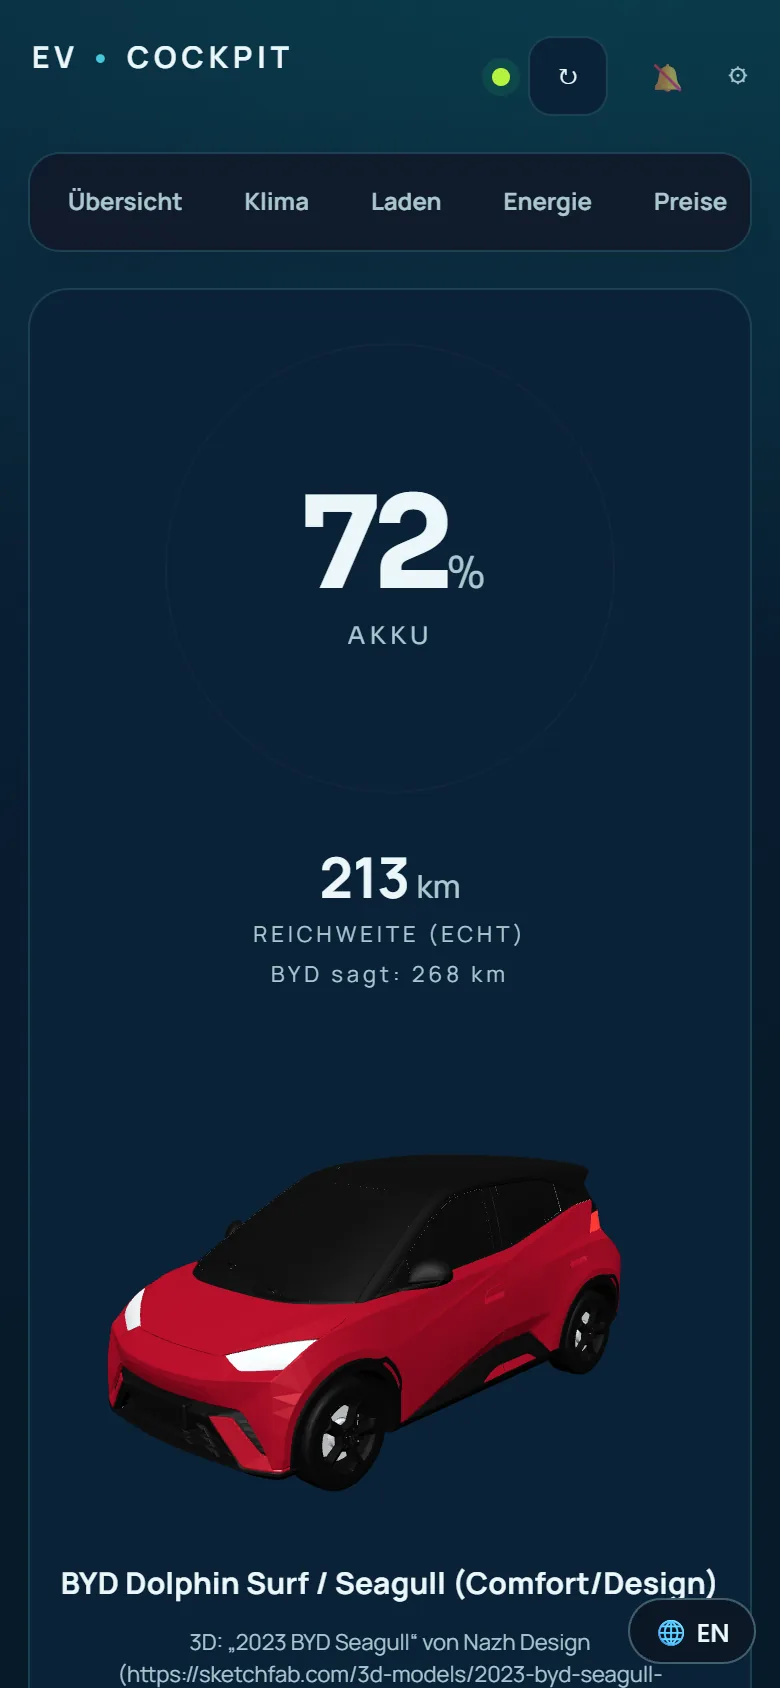
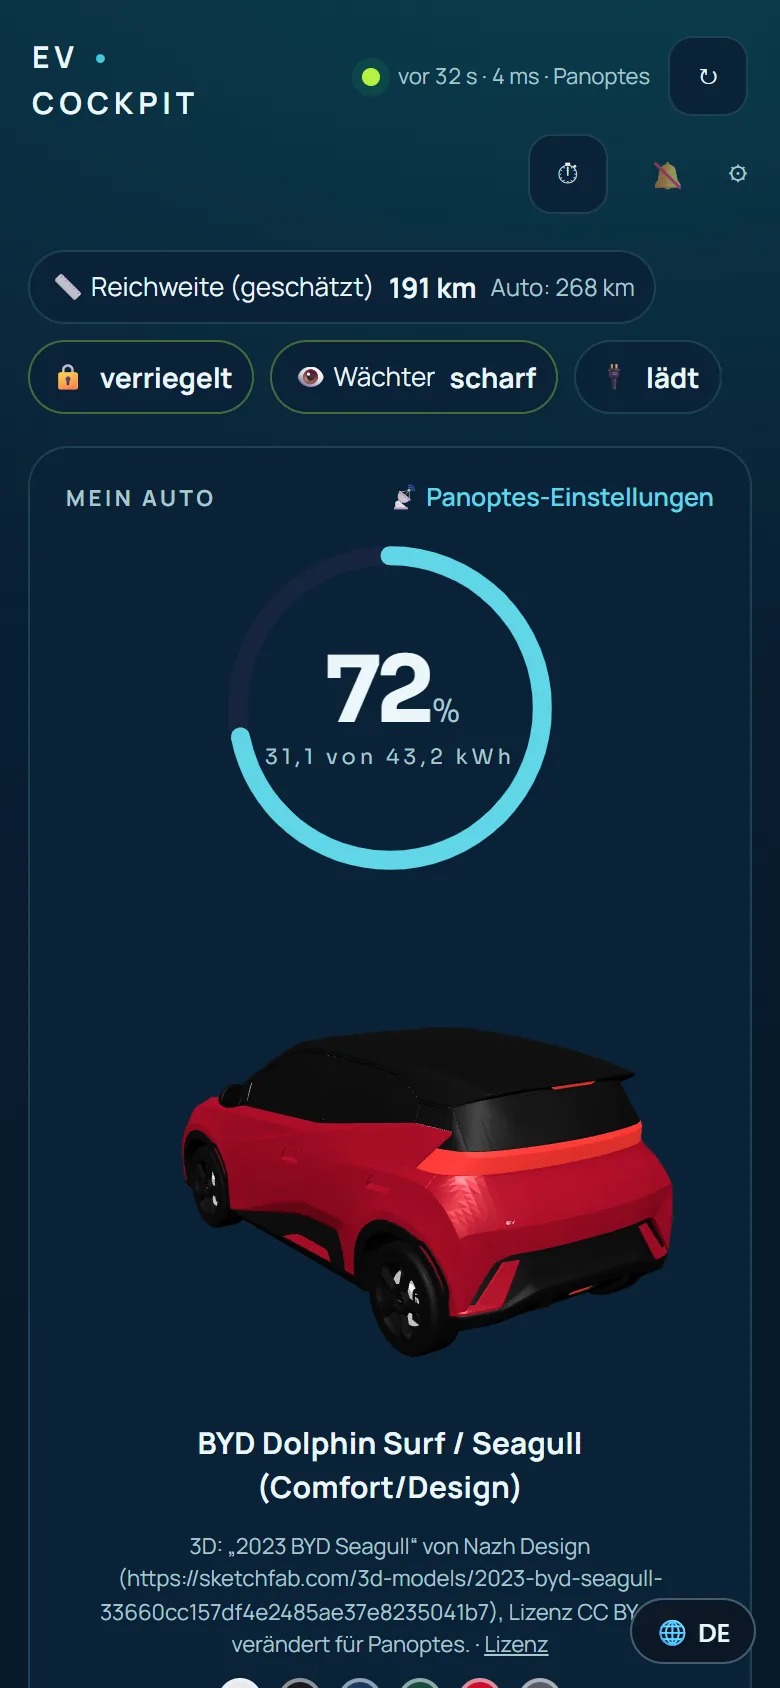
Website /ev-cockpit/ auf Stand 1.15 (Vorschlag Webseiten-Sitzung 22.10.)
- Galerie: Version 1.15 mit Musterdaten; neue Bilder Uebersicht (Ring in %), Laden & Kosten, Wo hast du geladen?, Ladungen, Wallbox steuern (ohne Adresse/Port)
- Text: Ladestand in %, Boersenpreis jederzeit schaltbar (aus = kein Abruf), Kosten je 100 km + Ladungen + Ladenachfrage (mit Panoptes), Wallbox steuern ueber evcc/HA/Tuya mit Freigabe und Rueckfrage, Waechter ueber Panoptes (adb nur noch Bastler-Weg ohne Panoptes)
- 'Wallbox und PV - ueber evcc, nur lesend' ersetzt

diff --git a/website/ev-cockpit/index.html b/website/ev-cockpit/index.html
@@ -190,8 +190,8 @@
     <div class="card">
       <b>Was du dann siehst:</b>
       <ul>
-        <li><b>Ladestand &amp; ehrliche Reichweite</b> — aus deinem <i>tatsächlichen</i> Verbrauch
-            gerechnet, daneben BYDs eigene Zahl. Du siehst den Unterschied.</li>
+        <li><b>Ladestand groß in %</b>, darunter die kWh, dazu die <b>ehrliche Reichweite</b> — aus deinem
+            <i>tatsächlichen</i> Verbrauch gerechnet, daneben BYDs eigene Zahl. Du siehst den Unterschied.</li>
         <li><b>Vorklimatisieren</b> — Heizen oder Kühlen per Knopf. <small>Aus Sicherheitsgründen nur, wenn das Auto
             <b>ausgeschaltet</b> ist: Das Cockpit prüft das vor jedem Befehl und sendet sonst nichts.</small></li>
         <li><b>Auf einen Blick:</b> verriegelt, Türen, Fenster, angesteckt, lädt, Gang</li>
@@ -205,7 +205,8 @@
       <b>Dazuschaltbar (alles freiwillig, alles abschaltbar):</b>
       <ul>
         <li><b>💶 Strompreis</b> — „wann ist Laden am billigsten?" Der Börsenpreis deines Landes als
-            Stundenbalken, inklusive morgen, mit der günstigsten Stunde.
+            Stundenbalken, inklusive morgen, mit der günstigsten Stunde. Jederzeit ein- und ausschaltbar, auch direkt
+            in der Kachel „Laden &amp; Kosten“; aus heißt: es wird nichts abgerufen.
             <br><small><b>Ehrlich:</b> Das ist der <b>Börsenpreis</b>, nicht deine Rechnung (Netz und
             Steuern fehlen). Nur mit einem Börsentarif (Tibber, aWATTar, smartENERGY) ist das dein
             echter Verlauf — bei Fixtarif bloß interessant.</small></li>
@@ -219,21 +220,41 @@
             passenden Preis. <small>Deine Fahrten bleiben auf deinem Rechner, an den Planer geht nur eine einzige
             Zahl (dein Korrekturfaktor).</small></li>
         <li><b>📱 Aufs Tablet holen</b> — ein Häkchen, dann geht es auch am Küchen-Tablet im eigenen WLAN</li>
-        <li><b>🎥 Wächter-Kamera</b> <small>(nur für Bastler)</small> — die letzte Auslöse-Aufnahme der
-            360°-Kameras.
-            <br><small>Braucht <b>adb</b> am Rechner, <b>kabelloses adb am Auto</b>, die Panoptes-App
-            und einen USB-Stick. Sagt dir das nichts: einfach weglassen, alles andere läuft trotzdem.</small></li>
+        <li><b>💶 Was kostet dich das Fahren?</b> <small>(mit Panoptes)</small> — groß <b>Ø € je 100 km</b> für Monat,
+            30 Tage oder Jahr, dazu kWh je 100 km und die <b>Liste deiner Ladungen</b> mit Monatssummen. Gerechnet wird im
+            Auto; fehlen Preise, steht das dabei.
+            <br><small>„<b>Wo hast du geladen?</b>“ — Ladungen ohne Preis beantwortest du direkt im Cockpit (Ladekarte, ad hoc,
+            zuhause oder gratis); auf Wunsch merkt sich das Auto den Ort. Braucht Panoptes 0.1.10 bzw. 0.1.10.1, sonst bleibt
+            der Bereich ausgeblendet.</small></li>
+        <li><b>⚡ Wallbox steuern</b> — über <b>evcc</b>, <b>Home Assistant</b> oder <b>Tuya</b> (direkt im Heimnetz, ohne
+            Tuya-Cloud): Lademodus, Ladestrom bzw. Ladeziel.
+            <br><small><b>Sicher:</b> Standard ist nur lesen. Jeder Ladepunkt muss einzeln freigegeben werden, jede Änderung fragt
+            nach, jede Aktion steht im Steuer-Protokoll. Schlüssel und Token bleiben verschlüsselt auf deinem PC.
+            Wärmepumpen und Heizstäbe werden nie gesteuert.</small></li>
+        <li><b>👁 Wächter</b> <small>(mit Panoptes)</small> — das letzte Ereignis und alle Aufnahmen der 360°-Kameras direkt
+            im Cockpit, ohne Zusatzprogramm.
+            <br><small>Ohne Panoptes gibt es für Bastler noch den alten Weg über <b>adb</b> und einen USB-Stick im Auto.
+            Sagt dir das nichts: einfach weglassen, alles andere läuft trotzdem.</small></li>
       </ul>
     </div>
 
 
     <div class="card">
       <b>So sieht das Cockpit aus</b>
-      <p style="margin:.5em 0 1em;color:#9fb3c8">Version 1.9.5. Klick auf ein Bild zum Vergrößern.</p>
+      <p style="margin:.5em 0 1em;color:#9fb3c8">Version 1.15, mit Musterdaten. Klick auf ein Bild zum Vergrößern.</p>
       <div class="wizshots">
         <figure class="breit"><a href="bilder/cockpit-uebersicht.webp" target="_blank" rel="noopener">
-          <img src="bilder/cockpit-uebersicht.webp" alt="Startseite des EV-Cockpits: 72 % Akku, 213 km echte Reichweite, ein rotes BYD Seagull in 3D" loading="lazy" width="1440" height="900"></a>
-          <figcaption><b>Übersicht</b> — Ladestand, ehrliche Reichweite und dein Auto in 3D</figcaption></figure>
+          <img src="bilder/cockpit-uebersicht.webp" alt="Startseite des EV-Cockpits mit Musterdaten: Ladestand 72 % groß im Ring, darunter 31,1 von 43,2 kWh, Status-Zeile mit Reichweite, verriegelt und Wächter, ein rotes BYD Seagull in 3D, rechts Route und Laden &amp; Kosten" loading="lazy" width="1440" height="900"></a>
+          <figcaption><b>Übersicht</b> — Ladestand in %, ehrliche Reichweite, dein Auto in 3D, Route und Kosten auf einen Blick</figcaption></figure>
+        <figure><a href="bilder/cockpit-laden-kosten.webp" target="_blank" rel="noopener">
+          <img src="bilder/cockpit-laden-kosten.webp" alt="Kachel Laden und Kosten: 3,88 Euro im Schnitt je 100 km in diesem Monat, 16,1 kWh je 100 km, Hinweis auf 2 Ladungen ohne Preis" loading="lazy" width="525" height="346"></a>
+          <figcaption><b>Laden &amp; Kosten</b> — Ø € je 100 km, Zeitraum wählbar; fehlende Preise stehen dabei</figcaption></figure>
+        <figure><a href="bilder/cockpit-ladenachfrage.webp" target="_blank" rel="noopener">
+          <img src="bilder/cockpit-ladenachfrage.webp" alt="Wo hast du geladen: zwei Ladungen ohne Preis mit Auswahl, wie bezahlt wurde, Preis je kWh und Ort merken" loading="lazy" width="491" height="308"></a>
+          <figcaption><b>„Wo hast du geladen?“</b> — Preis nachtragen, das Auto bleibt die Quelle</figcaption></figure>
+        <figure class="breit"><a href="bilder/cockpit-ladungen.webp" target="_blank" rel="noopener">
+          <img src="bilder/cockpit-ladungen.webp" alt="Liste der Ladungen mit Datum, AC oder DC, kWh, Preis, Preisquelle und Ort, je Monat mit Summe" loading="lazy" width="1176" height="414"></a>
+          <figcaption><b>Ladungen</b> — jede Ladung mit Preis und Herkunft des Preises, Monatssummen</figcaption></figure>
         <figure class="breit"><a href="bilder/cockpit-karte-live.webp" target="_blank" rel="noopener">
           <img src="bilder/cockpit-karte-live.webp" alt="Community-Karte mit Ladesäulen und Live-Belegung, unten die Quellenangabe" loading="lazy" width="1238" height="458"></a>
           <figcaption><b>Karte</b> — Ladesäulen rundum mit Live-Belegung (nur wenn du die Community-Karte wählst)</figcaption></figure>
@@ -250,14 +271,14 @@
           <img src="bilder/cockpit-panoptes-einstellungen.webp" alt="Panoptes-Einstellungen im gekoppelten Cockpit, nach Abschnitten gegliedert" loading="lazy" width="1440" height="900"></a>
           <figcaption><b>Panoptes-Einstellungen</b> — alles aus dem Auto am PC, Fernzugang bleibt im Auto</figcaption></figure>
         <figure><a href="bilder/cockpit-schmal-uebersicht.webp" target="_blank" rel="noopener">
-          <img src="bilder/cockpit-schmal-uebersicht.webp" alt="Das Cockpit am Handy: Ladestand, Reichweite und das 3D-Auto" loading="lazy" width="780" height="1688"></a>
+          <img src="bilder/cockpit-schmal-uebersicht.webp" alt="Das Cockpit am Handy mit Musterdaten: Status-Zeile, Ladestand 72 % und das 3D-Auto" loading="lazy" width="780" height="1688"></a>
           <figcaption><b>Am Handy</b> — dieselbe Seite, schmal</figcaption></figure>
         <figure><a href="bilder/cockpit-schmal-pflichttext.webp" target="_blank" rel="noopener">
           <img src="bilder/cockpit-schmal-pflichttext.webp" alt="Wächter-Einstellung am Handy mit dem vollständigen rechtlichen Hinweis zum Bestätigen" loading="lazy" width="780" height="1688"></a>
           <figcaption><b>Wächter</b> — der rechtliche Hinweis steht vollständig da und wird bestätigt</figcaption></figure>
-        <figure class="breit"><a href="bilder/cockpit-evcc-lesend.webp" target="_blank" rel="noopener">
-          <img src="bilder/cockpit-evcc-lesend.webp" alt="Energie und Ladepunkte über evcc, nur lesend" loading="lazy" width="1208" height="668"></a>
-          <figcaption><b>Wallbox und PV</b> — über evcc, nur lesend</figcaption></figure>
+        <figure><a href="bilder/cockpit-wallbox-steuern.webp" target="_blank" rel="noopener">
+          <img src="bilder/cockpit-wallbox-steuern.webp" alt="Wallbox-Karte mit Musterdaten: 3,7 kW, lädt, Modus Sofort, 10 A, darunter Knöpfe Aus, Sofort, Ladestrom und Steuern aus" loading="lazy" width="620" height="223"></a>
+          <figcaption><b>Wallbox</b> — über evcc, Home Assistant oder Tuya; steuern erst nach deiner Freigabe, jedes Mal mit Rückfrage</figcaption></figure>
         <figure class="breit"><a href="bilder/cockpit-karte-waehlen.webp" target="_blank" rel="noopener">
           <img src="bilder/cockpit-karte-waehlen.webp" alt="Ohne Wahl lädt das Cockpit keine Karte und fragt nach OpenStreetMap oder Community-Karte" loading="lazy" width="1220" height="440"></a>
           <figcaption><b>Deine Wahl</b> — ohne dein Häkchen lädt das Cockpit nicht einmal Kartenbilder</figcaption></figure>
